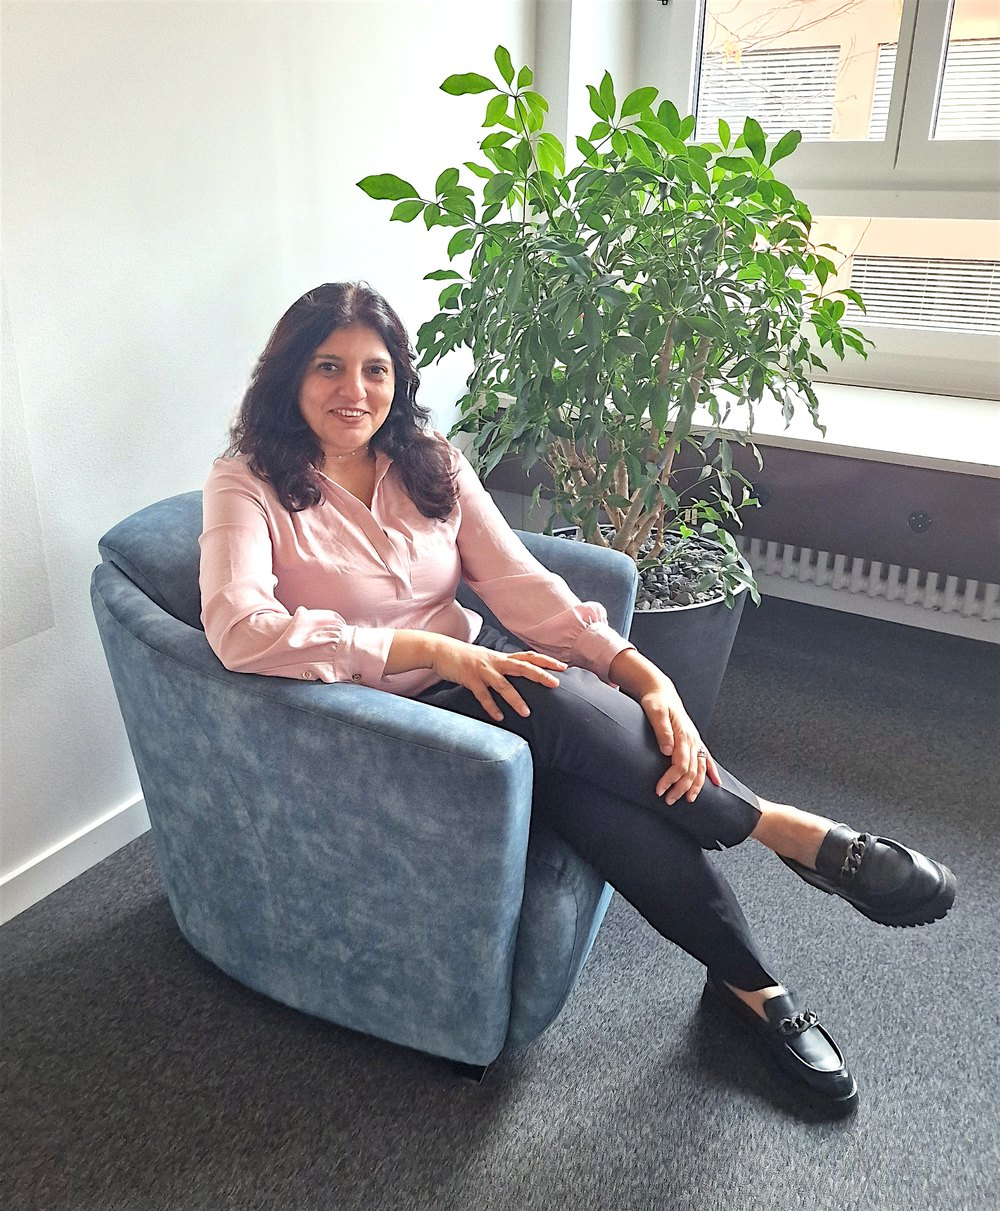
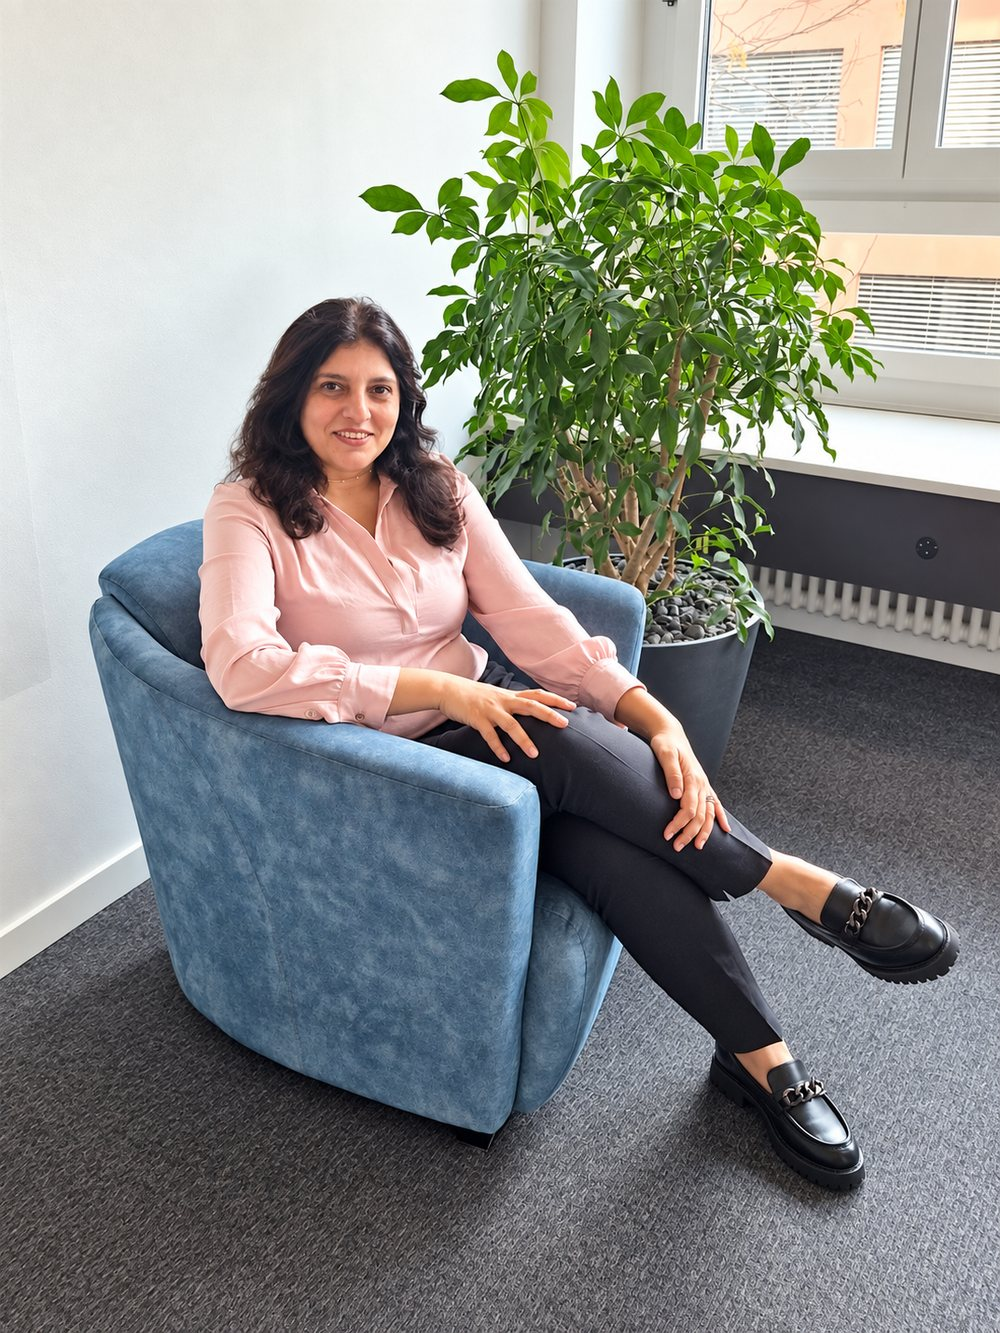
About story: replace seated photo with Frame 2-Pic, compressed to web quality (2.8MB -> 300KB)

diff --git a/about.html b/about.html
@@ -16,7 +16,7 @@
   <link rel="preconnect" href="https://fonts.gstatic.com" crossorigin />
   <link href="https://fonts.googleapis.com/css2?family=Cormorant+Garamond:ital,wght@0,400;0,500;0,600;0,700;1,400;1,500;1,600&family=Manrope:wght@400;500;600;700&display=swap" rel="stylesheet" />
 
-  <link rel="stylesheet" href="css/styles.css?v=51" />
+  <link rel="stylesheet" href="css/styles.css?v=52" />
 </head>
 <body>
   <!-- ============ HEADER / NAV (same standard as home) ============ -->
@@ -93,7 +93,7 @@
     </section>
   </main>
 
-  <script src="js/main.js?v=51" defer></script>
-  <script src="js/protect.js?v=51" defer></script>
+  <script src="js/main.js?v=52" defer></script>
+  <script src="js/protect.js?v=52" defer></script>
 </body>
 </html>
